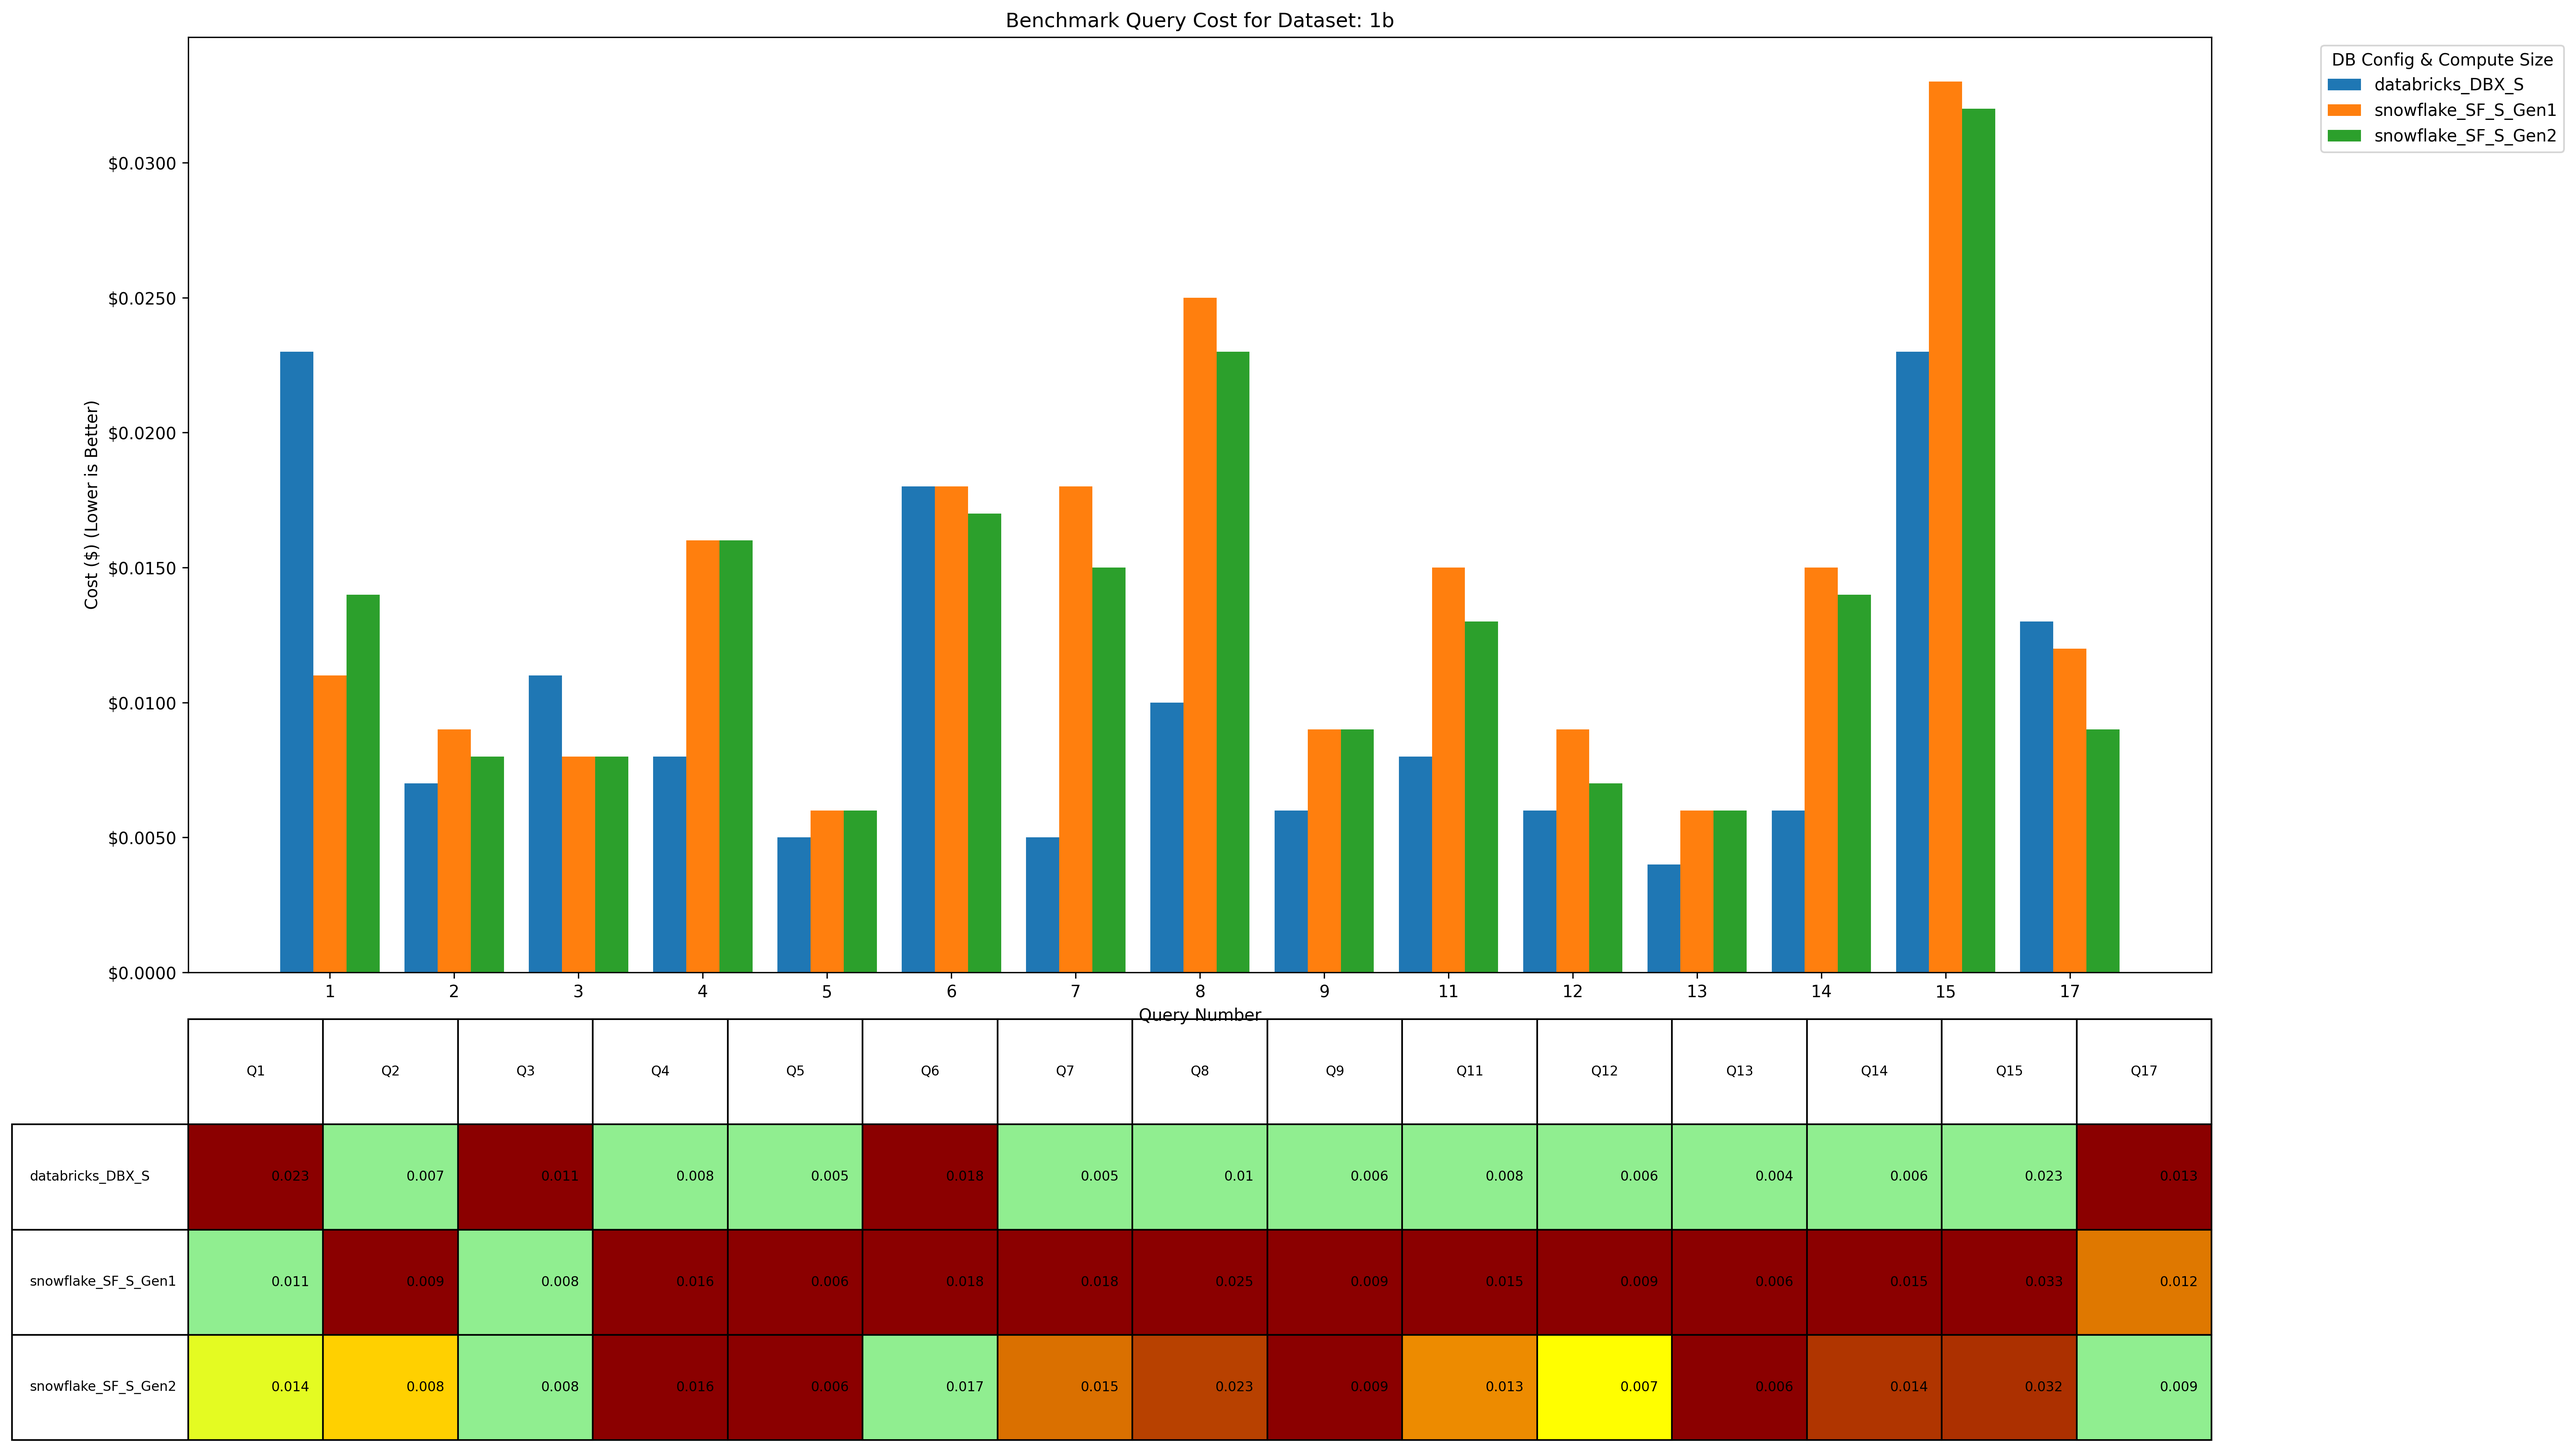
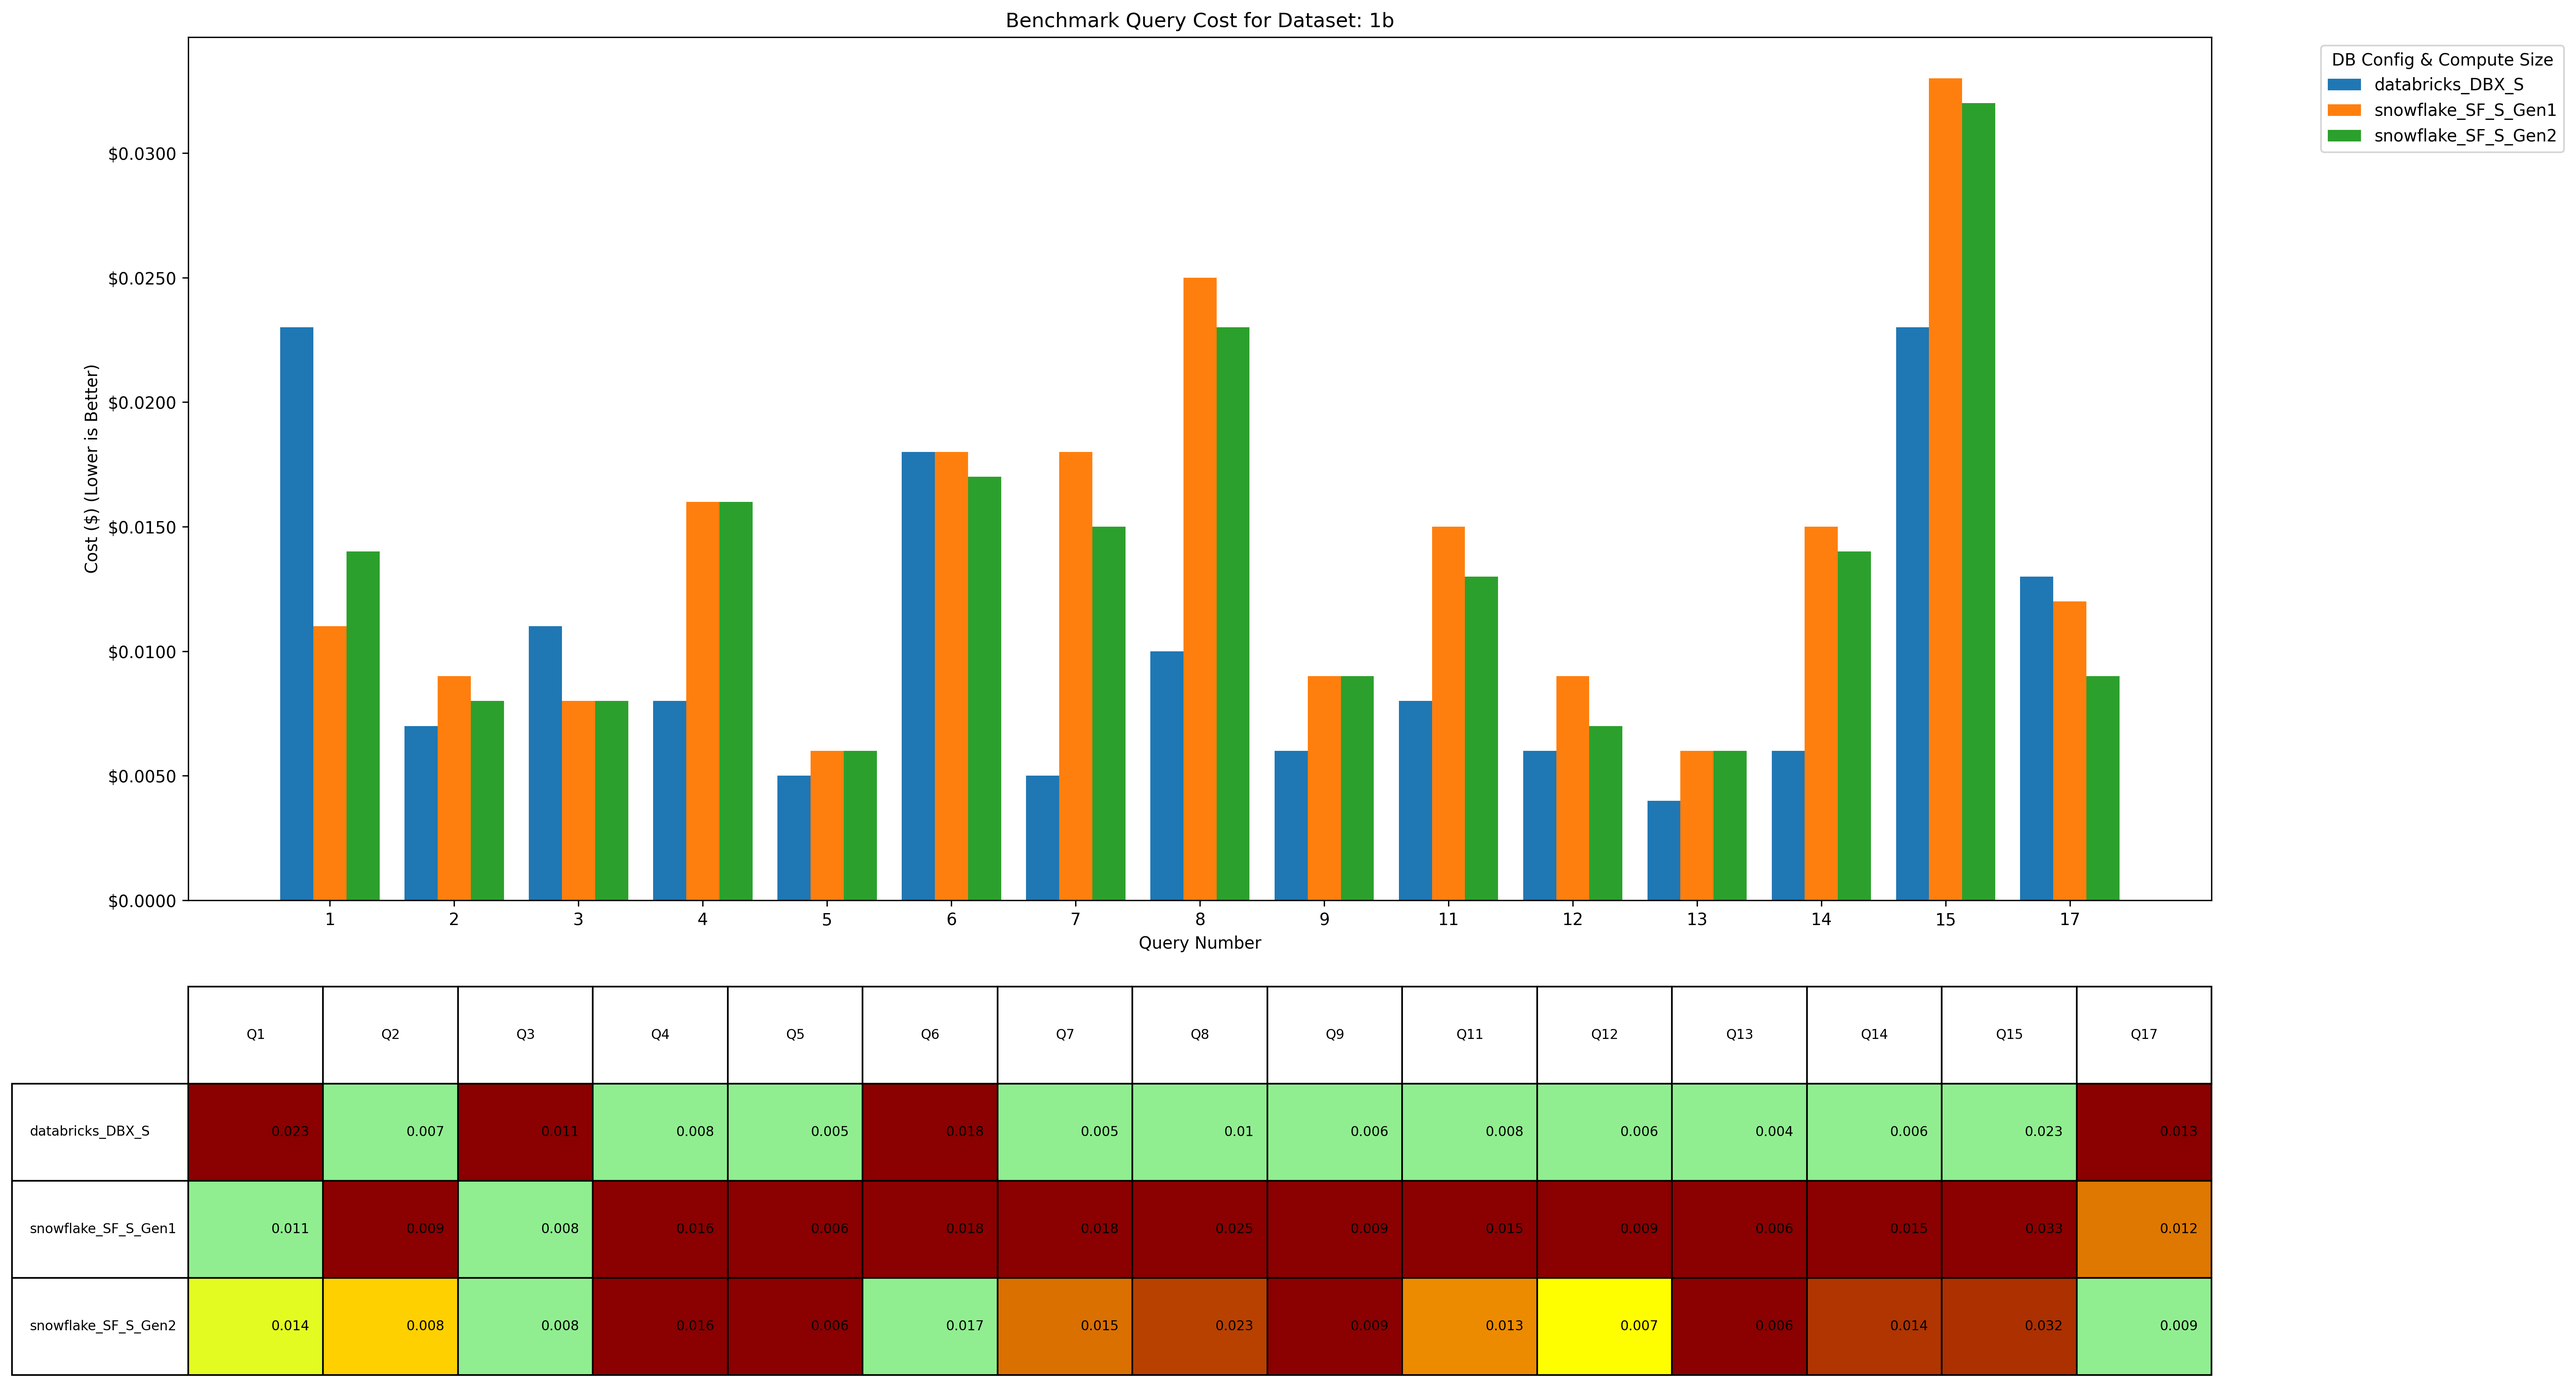
add ordering, totals cost and time

diff --git a/results_vis/main.py b/results_vis/main.py
@@ -103,7 +103,7 @@ def generate_visualizations(df_to_plot, metric_column, y_label, title_suffix, pl
         ax.yaxis.set_major_formatter(mticker.FormatStrFormatter('%.2f s'))
         table_data_str = pivot_table.fillna('N/A').round(2).astype(str)
 
-    plt.subplots_adjust(left=0.05, bottom=0.25, right=0.8, top=0.9)
+    plt.subplots_adjust(left=0.05, bottom=0.30, right=0.8, top=0.9) # Increased bottom margin
 
     cell_text_values = table_data_str.values.tolist()
     col_labels = [f"Q{col}" for col in table_data_str.columns]
@@ -148,7 +148,7 @@ def generate_visualizations(df_to_plot, metric_column, y_label, title_suffix, pl
     the_table = plt.table(cellText=cell_text_values, 
                           rowLabels=row_labels, colLabels=col_labels,
                           cellColours=cell_colors_list, loc='bottom',
-                          bbox=[0, -0.35 - 0.05 * len(row_labels), 1, 0.3 + 0.05 * len(row_labels)])
+                          bbox=[0, -0.40 - 0.05 * len(row_labels), 1, 0.3 + 0.05 * len(row_labels)]) # Made y-position more negative
     the_table.auto_set_font_size(False)
     the_table.set_fontsize(8)
     the_table.scale(1, 1.2)
@@ -159,6 +159,126 @@ def generate_visualizations(df_to_plot, metric_column, y_label, title_suffix, pl
         print(f"Saved plot ({metric_column}) to {plot_filename}")
     except Exception as e:
         print(f"Error saving plot {plot_filename}: {e}")
+    plt.close(fig)
+
+
+def generate_total_metric_visualizations(df_to_plot, metric_column, y_label, title_suffix, plot_filename_base, table_filename_base, dataset_size, output_dir):
+    """Generates and saves a plot and a CSV table for the total sum of a given metric, grouped by configuration."""
+    print(f"--- Generating TOTAL visualization for metric: {metric_column}, dataset: {dataset_size} ---")
+
+    # Calculate total metric per config_compute, ensure to sum only valid numbers
+    # Using min_count=1 so that if all values for a group are NaN, the sum is NaN, not 0.
+    grouped_sum = df_to_plot.groupby('config_compute')[metric_column].sum(min_count=1)
+    grouped_sum.dropna(inplace=True) # Drop NaNs from the sum results first
+
+    if grouped_sum.empty:
+        print(f"Total metrics for '{metric_column}', dataset '{dataset_size}' are empty after dropping NaNs. Skipping plot.")
+        return
+
+    # For the plot (smallest bar at the top because barh plots first item in series at bottom of y-axis)
+    series_for_plot = grouped_sum.sort_values(ascending=False)
+
+    # For the table and CSV (smallest value at the top)
+    series_for_table_csv = grouped_sum.sort_values(ascending=True)
+
+    # Convert Series to DataFrame for table saving (using ascending order)
+    total_metrics_df_for_csv = series_for_table_csv.reset_index()
+    total_metrics_df_for_csv.columns = ['config_compute', f'total_{metric_column}']
+
+    table_filename_csv = os.path.join(output_dir, f"{table_filename_base}_{dataset_size}.csv")
+    try:
+        total_metrics_df_for_csv.to_csv(table_filename_csv, index=False)
+        print(f"Saved total metrics table ({metric_column}) to {table_filename_csv}")
+    except Exception as e:
+        print(f"Error saving total metrics table {table_filename_csv}: {e}")
+
+    num_configs = len(series_for_plot.index) # Use series_for_plot for plot dimensions
+    # Adjust figsize for horizontal bars: height might depend on num_configs, width can be more fixed or adapt to label length
+    fig, ax = plt.subplots(figsize=(12, max(6, num_configs * 0.5))) # Width, Height
+
+    ax.barh(series_for_plot.index, series_for_plot.values, color='teal')
+
+    ax.set_ylabel("DB Config & Compute Size") # Swapped
+    ax.set_xlabel(y_label) # Swapped
+    ax.set_title(f"Benchmark {title_suffix} for Dataset: {dataset_size}")
+    # plt.xticks is not needed here for rotation as y-labels in barh are typically horizontal
+    # Ensure y-labels (config names) are fully visible if they are long
+    plt.yticks(fontsize=8) # Adjust fontsize if needed
+    
+    # Define colors for table (consistent with other plot)
+    color_map_definition = [
+        (0.0, mcolors.to_rgba('lightgreen')), (0.33, mcolors.to_rgba('yellow')),
+        (0.66, mcolors.to_rgba('orange')), (1.0, mcolors.to_rgba('darkred'))
+    ]
+    custom_cmap = mcolors.LinearSegmentedColormap.from_list("custom_gradient", color_map_definition)
+    nan_color = mcolors.to_rgba('lightgrey')
+    default_cell_color = mcolors.to_rgba('white')
+
+    # Table display uses series_for_table_csv (ascending order)
+    table_values_for_display = series_for_table_csv.copy()
+    if metric_column == 'cost':
+        ax.xaxis.set_major_formatter(mticker.FormatStrFormatter('$%.4f')) # Changed to xaxis
+        table_values_for_display = table_values_for_display.round(4)
+    else: # seconds
+        ax.xaxis.set_major_formatter(mticker.FormatStrFormatter('%.2f s')) # Changed to xaxis
+        table_values_for_display = table_values_for_display.round(2)
+    
+    cell_text_str_list = table_values_for_display.fillna('N/A').astype(str).tolist()
+    cell_text_values = [[val] for val in cell_text_str_list] # Define cell_text_values for the table
+    row_labels = series_for_table_csv.index.tolist() # Use ascending order for table row labels
+    col_labels = [f"Total {metric_column.capitalize()}"]
+
+    cell_colors_list = [[default_cell_color] for _ in range(len(row_labels))]
+    valid_data_for_color = table_values_for_display.dropna()
+
+    if not valid_data_for_color.empty:
+        min_val_color = valid_data_for_color.min()
+        max_val_color = valid_data_for_color.max()
+        for i, value in enumerate(table_values_for_display):
+            if pd.isna(value):
+                cell_colors_list[i][0] = nan_color
+            else:
+                if min_val_color == max_val_color:
+                    cell_colors_list[i][0] = custom_cmap(0.0)
+                else:
+                    norm_value = (value - min_val_color) / (max_val_color - min_val_color)
+                    cell_colors_list[i][0] = custom_cmap(norm_value)
+    else:
+        for i in range(len(row_labels)):
+            cell_colors_list[i][0] = nan_color
+
+    # Adjust layout for table and potentially long y-axis labels
+    plt.subplots_adjust(left=0.3, bottom=0.35) # Increased bottom margin for plot, to make space for table
+
+    table_height_inches = max(1.5, len(row_labels) * 0.25 + 0.5)
+    current_fig_width, current_fig_height = fig.get_size_inches()
+    # fig.set_size_inches(current_fig_width, current_fig_height + table_height_inches) # This can distort existing plot, use bbox carefully
+
+    # Position table using bbox relative to axes. The axes itself might need adjustment.
+    # The bbox coordinates are (left, bottom, width, height) relative to the axes.
+    # Negative bottom places it below the axes. Height of bbox needs to be dynamic.
+    dynamic_bbox_bottom = -0.35 - (0.03 * len(row_labels)) # Made more negative to push table further down
+    dynamic_bbox_height = 0.2 + (0.03 * len(row_labels))  # Heuristic for height
+
+    the_table = plt.table(cellText=cell_text_values,
+                          rowLabels=row_labels,
+                          colLabels=col_labels,
+                          cellColours=cell_colors_list,
+                          loc='bottom',
+                          bbox=[0, dynamic_bbox_bottom, 1, dynamic_bbox_height] # Full width of axes, below it
+                         )
+    the_table.auto_set_font_size(False)
+    the_table.set_fontsize(8)
+    the_table.scale(1, 1.2)
+
+    plt.tight_layout(rect=[0, 0.05, 1, 0.95]) # Adjust rect to prevent table overlap if bbox_inches='tight' is not enough
+
+    plot_filename = os.path.join(output_dir, f"{plot_filename_base}_{dataset_size}.png")
+    try:
+        plt.savefig(plot_filename, dpi=300, bbox_inches='tight')
+        print(f"Saved total metrics plot ({metric_column}) to {plot_filename}")
+    except Exception as e:
+        print(f"Error saving total metrics plot {plot_filename}: {e}")
     plt.close(fig)
 
 def main():
@@ -282,6 +402,34 @@ def main():
             )
         else:
             print(f"No cost data available for dataset {dataset_size} to generate cost plot.")
+
+        # Generate total time visualization
+        generate_total_metric_visualizations(
+            df_to_plot=df_dataset_current,
+            metric_column='seconds',
+            y_label='Total Seconds (Sum of All Queries)',
+            title_suffix='Total Performance (Time)',
+            plot_filename_base='plot_total_time',
+            table_filename_base='table_total_time',
+            dataset_size=dataset_size,
+            output_dir=OUTPUT_DIR
+        )
+
+        # Generate total cost visualization
+        # df_cost_dataset is already filtered for notna costs from the per-query section
+        if not df_cost_dataset.empty:
+            generate_total_metric_visualizations(
+                df_to_plot=df_cost_dataset, # Use the same df_cost_dataset
+                metric_column='cost',
+                y_label='Total Cost ($) (Sum of All Queries)',
+                title_suffix='Total Query Cost',
+                plot_filename_base='plot_total_cost',
+                table_filename_base='table_total_cost',
+                dataset_size=dataset_size,
+                output_dir=OUTPUT_DIR
+            )
+        else:
+            print(f"No cost data available for dataset {dataset_size} to generate total cost plot.")
 
 
 if __name__ == "__main__":
